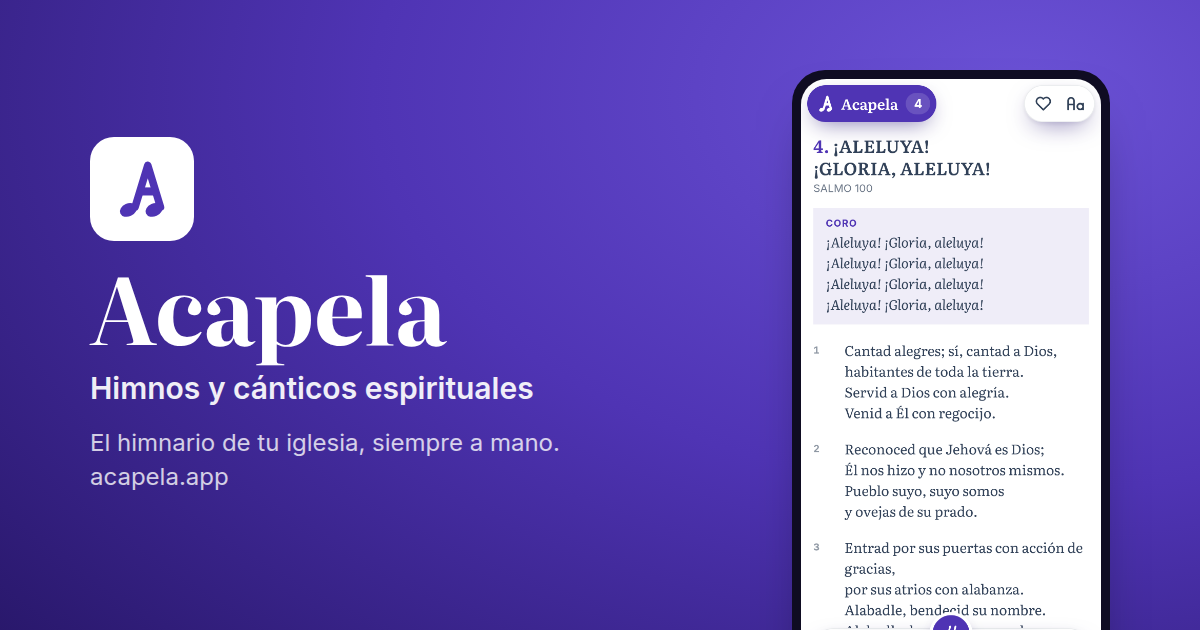
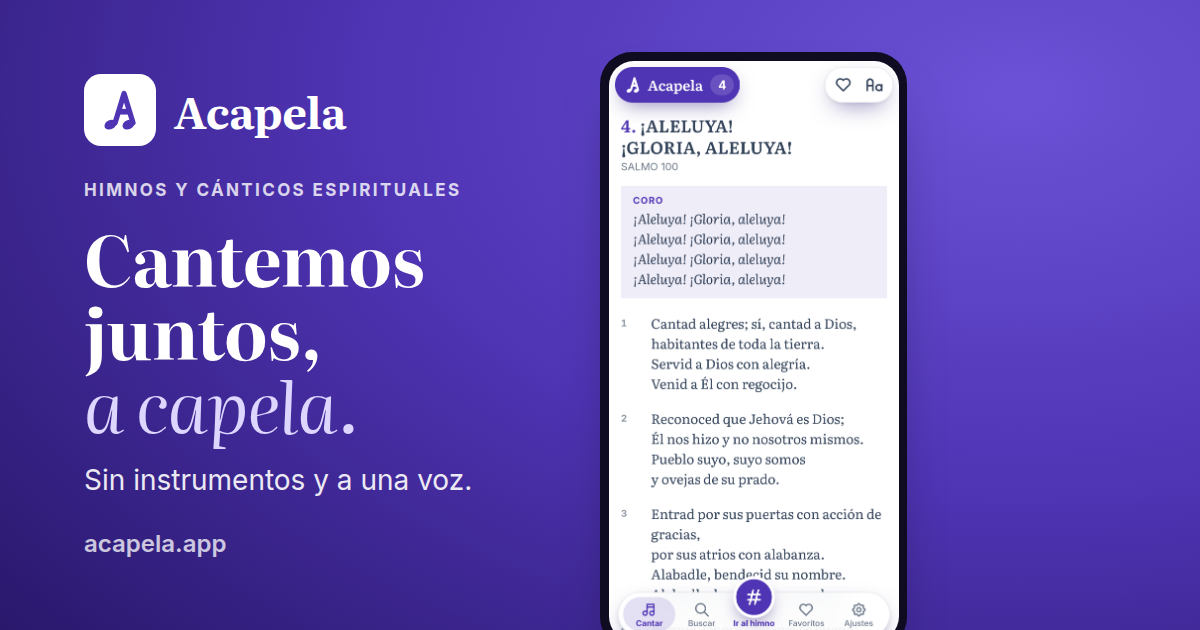
feat: og:image and link descriptions with the current value line
The link preview now says what the home hero says: "Cantemos juntos,
a capela. Sin instrumentos y a una voz." (it still read "El himnario de
tu iglesia, siempre a mano"). The phone with an open hymn moves into the
centred square, which is what WhatsApp shows when it crops the preview;
before, it sat on the right edge and was cut out. Same text in the meta
description, og/twitter descriptions and the PWA manifest. The image URL
carries ?v=2 so WhatsApp and other scrapers fetch it again instead of
serving their cached copy.

diff --git a/nuxt.config.ts b/nuxt.config.ts
@@ -29,20 +29,20 @@ export default defineNuxtConfig({
         // open graph social image
         { property: "og:url", content: "https://acapela.app" },
         { property: "og:title", content: "Acapela" },
-        { name: "description", content: "Himnos y cánticos espirituales. El himnario de tu iglesia, siempre a mano y sin conexión." },
-        { property: "og:description", content: "Himnos y cánticos espirituales. El himnario de tu iglesia, siempre a mano." },
+        { name: "description", content: "Cantemos juntos, a capela: himnos y cánticos espirituales sin instrumentos y a una voz. Letra grande y clara, sin conexión y gratis." },
+        { property: "og:description", content: "Cantemos juntos, a capela. Himnos y cánticos espirituales, sin instrumentos y a una voz." },
         { property: "og:type", content: "website" },
-        { property: "og:image", content: "https://acapela.app/og-image.png" },
+        { property: "og:image", content: "https://acapela.app/og-image.png?v=2" },
         { property: "og:image:type", content: "image/png" },
         { property: "og:image:width", content: "1200" },
         { property: "og:image:height", content: "630" },
-        { property: "og:image:alt", content: "Acapela: himnos y cánticos espirituales" },
+        { property: "og:image:alt", content: "Acapela: Cantemos juntos, a capela. Un teléfono muestra un himno abierto." },
         { property: "og:site_name", content: "Acapela" },
         { property: "og:locale", content: "es_UY" },
         { name: "twitter:card", content: "summary_large_image" },
         { name: "twitter:title", content: "Acapela" },
-        { name: "twitter:description", content: "Himnos y cánticos espirituales. El himnario de tu iglesia, siempre a mano." },
-        { name: "twitter:image", content: "https://acapela.app/og-image.png" },
+        { name: "twitter:description", content: "Cantemos juntos, a capela. Himnos y cánticos espirituales, sin instrumentos y a una voz." },
+        { name: "twitter:image", content: "https://acapela.app/og-image.png?v=2" },
       ],
     },
     pageTransition: {
@@ -169,7 +169,7 @@ export default defineNuxtConfig({
       id: "/",
       name: "Acapela",
       short_name: "Acapela",
-      description: "Himnos y cánticos espirituales. El himnario de tu iglesia, siempre a mano y sin conexión.",
+      description: "Cantemos juntos, a capela: himnos y cánticos espirituales sin instrumentos y a una voz. Letra grande y clara, sin conexión y gratis.",
       start_url: "/?source=pwa",
       scope: "/",
       display: "standalone",
